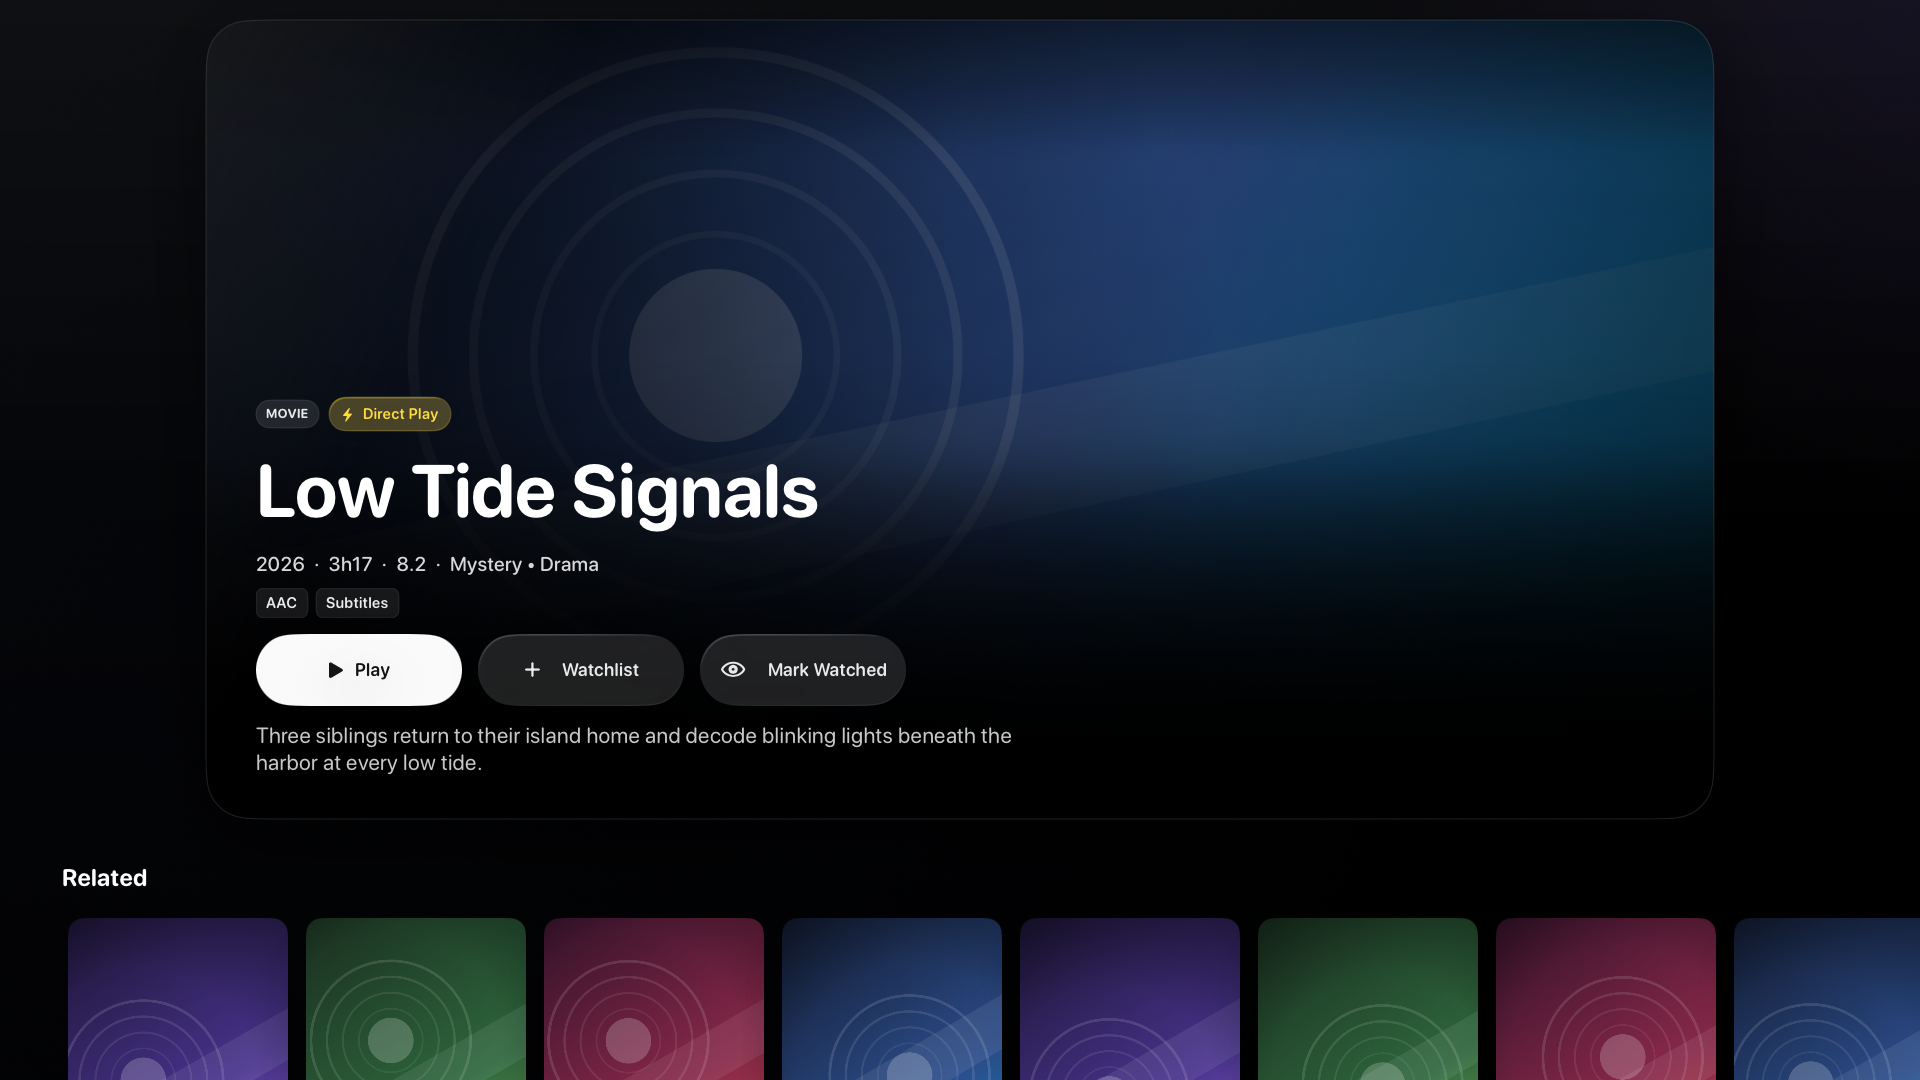
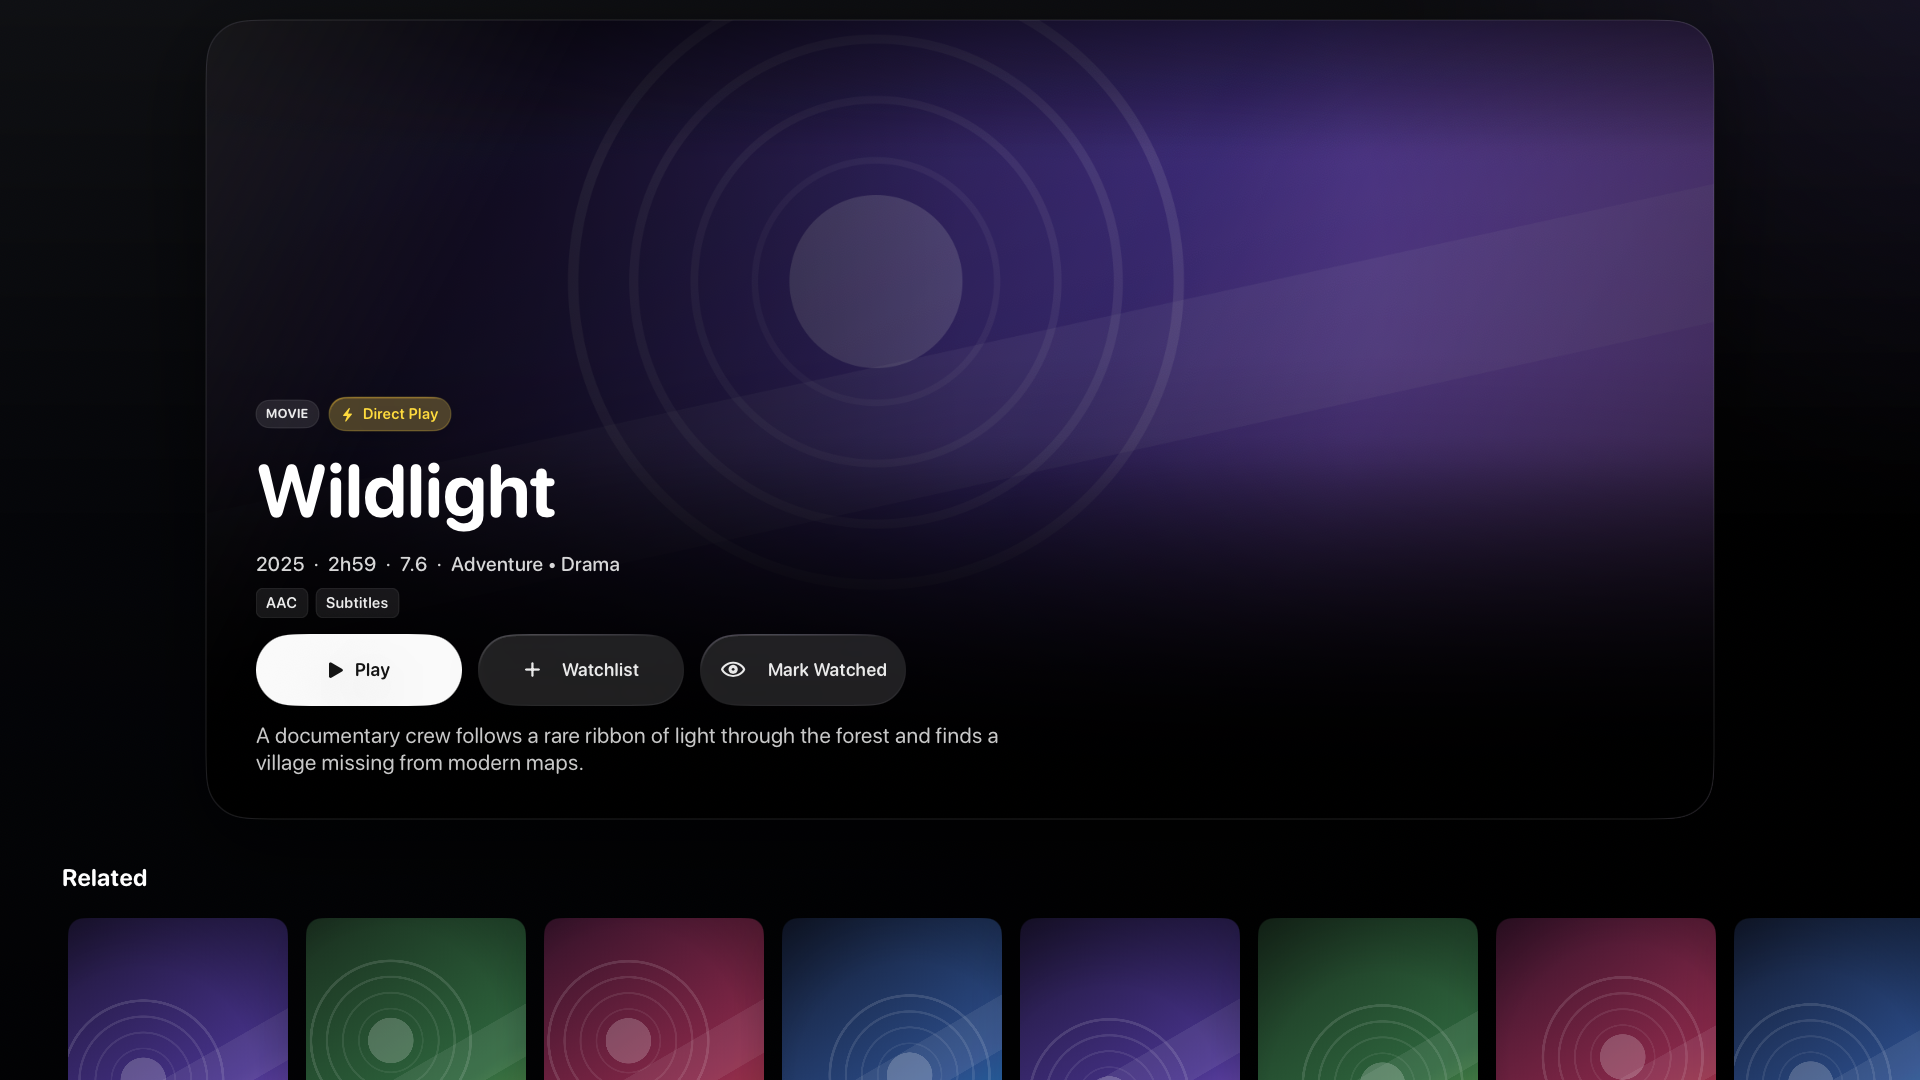
fix: align storefront review captures

diff --git a/Tests/PlaybackEngineTests/StorefrontDeterminismTests.swift b/Tests/PlaybackEngineTests/StorefrontDeterminismTests.swift
@@ -1,4 +1,5 @@
 @testable import ReelFinUI
+import Shared
 import XCTest
 
 final class StorefrontDeterminismTests: XCTestCase {
@@ -17,22 +18,85 @@ final class StorefrontDeterminismTests: XCTestCase {
         XCTAssertTrue(HeroBackgroundRenderingPolicy.includesAmbientArtwork(isScreenshotMode: false))
     }
 
-    func testStorefrontCatalogUsesCredibleFictionalReleaseCopy() async throws {
+    func testStorefrontUsesCredibleFictionalReleaseCopy() async throws {
         let client = MockJellyfinAPIClient()
         let featured = try await client.fetchItem(id: "sample-0")
         let searchResult = try await client.fetchItem(id: "sample-24")
+        let currentSession = await client.currentSession()
+        let session = try XCTUnwrap(currentSession)
+        let storedSession = try XCTUnwrap(MockSettingsStore().lastSession)
 
         XCTAssertEqual(featured.name, "Vesper Meridian")
         XCTAssertEqual(searchResult.name, "Hollow Aurora")
         XCTAssertTrue(featured.overview?.contains("cartographer") == true)
+        XCTAssertEqual(session.username, "Avery Morgan")
+        XCTAssertEqual(storedSession.username, "Avery Morgan")
+
+        let releaseCopy = [
+            featured.name,
+            featured.overview ?? "",
+            searchResult.name,
+            searchResult.overview ?? "",
+            session.username,
+            storedSession.username
+        ]
+        .joined(separator: " ")
+        .lowercased()
+
+        for forbiddenTerm in ["sample", "mock", "preview"] {
+            XCTAssertFalse(releaseCopy.contains(forbiddenTerm))
+        }
 
         for item in [featured, searchResult] {
-            let releaseCopy = [item.name, item.overview ?? ""].joined(separator: " ").lowercased()
-            XCTAssertFalse(releaseCopy.contains("sample"))
-            XCTAssertFalse(releaseCopy.contains("mock"))
-            XCTAssertFalse(releaseCopy.contains("preview"))
             XCTAssertGreaterThan(item.overview?.count ?? 0, 60)
         }
+    }
+
+    func testStorefrontAPIClientFiltersBeforeApplyingLibraryPageSize() async throws {
+        let client = MockJellyfinAPIClient()
+        let movies = try await client.fetchLibraryItems(
+            query: LibraryQuery(
+                viewID: nil,
+                page: 0,
+                pageSize: 4,
+                query: nil,
+                mediaType: .movie
+            )
+        )
+        let shows = try await client.fetchLibraryItems(
+            query: LibraryQuery(
+                viewID: nil,
+                page: 0,
+                pageSize: 4,
+                query: nil,
+                mediaType: .series
+            )
+        )
+
+        XCTAssertEqual(movies.count, 4)
+        XCTAssertEqual(shows.count, 4)
+        XCTAssertTrue(movies.allSatisfy { $0.mediaType == .movie })
+        XCTAssertTrue(shows.allSatisfy { $0.mediaType == .series })
+        XCTAssertEqual(movies.map(\.id), ["sample-0", "sample-2", "sample-4", "sample-6"])
+        XCTAssertEqual(shows.map(\.id), ["sample-1", "sample-3", "sample-5", "sample-7"])
+    }
+
+    func testStorefrontMetadataCacheFiltersBeforeApplyingLibraryPageSize() async throws {
+        let repository = MockMetadataRepository()
+        try await repository.upsertItems(MockJellyfinAPIClient.storefrontItems(prefix: 8))
+        let shows = try await repository.fetchLibraryItems(
+            query: LibraryQuery(
+                viewID: nil,
+                page: 0,
+                pageSize: 4,
+                query: nil,
+                mediaType: .series
+            )
+        )
+
+        XCTAssertEqual(shows.count, 4)
+        XCTAssertTrue(shows.allSatisfy { $0.mediaType == .series })
+        XCTAssertEqual(Set(shows.map(\.id)), Set(["sample-1", "sample-3", "sample-5", "sample-7"]))
     }
 
     func testFictionalSeriesEpisodesRemainCoherentWithSelectedSeries() async throws {

diff --git a/Tests/ReelFinUITests/ReelFinUITests.swift b/Tests/ReelFinUITests/ReelFinUITests.swift
@@ -254,17 +254,62 @@ final class AppStoreScreenshotTests: XCTestCase {
         if UIDevice.current.userInterfaceIdiom == .pad {
             XCTAssertTrue(app.staticTexts["Library"].firstMatch.waitForExistence(timeout: 5))
         }
-        XCTAssertTrue(firstPoster.waitForExistence(timeout: 8))
+        let showsFilter = app.buttons["Shows"].firstMatch
+        XCTAssertTrue(showsFilter.waitForExistence(timeout: 8))
+        showsFilter.tap()
+        let showcasedSeries = app.buttons["media_card_button_sample-39"].firstMatch
+        XCTAssertTrue(showcasedSeries.waitForExistence(timeout: 8))
         capture(name: "02-library")
 
-        firstPoster.tap()
+        showcasedSeries.tap()
         let playButton = playbackActionButton(in: app)
         XCTAssertTrue(playButton.exists)
         XCTAssertTrue(app.otherElements["detail_hero_artwork_ready"].waitForExistence(timeout: 12))
         capture(name: "03-detail")
+
+        let detailBackButton = app.buttons["Back"].firstMatch
+        XCTAssertTrue(detailBackButton.waitForExistence(timeout: 5))
+        detailBackButton.tap()
+        XCTAssertTrue(app.staticTexts["Library"].firstMatch.waitForExistence(timeout: 8))
+        if UIDevice.current.userInterfaceIdiom == .pad {
+            XCTAssertTrue(app.descendants(matching: .any)["root_sidebar_home"].firstMatch.waitForExistence(timeout: 5))
+        }
+
         openSection(named: "Settings", in: app)
         XCTAssertTrue(app.staticTexts["Settings"].firstMatch.waitForExistence(timeout: 8))
+        if UIDevice.current.userInterfaceIdiom == .pad {
+            XCTAssertTrue(app.descendants(matching: .any)["root_sidebar_home"].firstMatch.waitForExistence(timeout: 5))
+            XCTAssertTrue(app.staticTexts["Home"].firstMatch.waitForExistence(timeout: 5))
+            XCTAssertTrue(app.staticTexts["ReelFin"].firstMatch.waitForExistence(timeout: 5))
+        }
+        let storefrontUsername = app.staticTexts.matching(
+            NSPredicate(format: "label CONTAINS %@", "Avery Morgan")
+        ).firstMatch
+        XCTAssertTrue(storefrontUsername.waitForExistence(timeout: 5))
+        XCTAssertFalse(app.staticTexts["Preview"].firstMatch.exists)
         capture(name: "04-settings")
+    }
+
+    func testArtworkReadyAnchorsAreAbsentOutsideScreenshotMode() throws {
+        let app = XCUIApplication()
+        app.launchArguments += [
+            "-reelfin-mock-mode",
+            "-AppleLanguages", "(en)",
+            "-AppleLocale", "en_US",
+            "-AppleInterfaceStyle", "Dark"
+        ]
+        app.launch()
+
+        XCTAssertTrue(app.wait(for: .runningForeground, timeout: 10))
+        let firstPoster = app.buttons.matching(
+            NSPredicate(format: "identifier BEGINSWITH %@", "media_card_button_")
+        ).firstMatch
+        XCTAssertTrue(firstPoster.waitForExistence(timeout: 12))
+        XCTAssertFalse(app.otherElements["home_hero_artwork_ready"].waitForExistence(timeout: 4))
+
+        firstPoster.tap()
+        XCTAssertTrue(playbackActionButton(in: app).exists)
+        XCTAssertFalse(app.otherElements["detail_hero_artwork_ready"].waitForExistence(timeout: 4))
     }
 
     func testCapturePlayerScreenshot() throws {

diff --git a/ReelFinUI/Sources/ReelFinUI/PreviewMocks.swift b/ReelFinUI/Sources/ReelFinUI/PreviewMocks.swift
@@ -31,7 +31,7 @@ final class MockJellyfinAPIClient: JellyfinAPIClientProtocol, @unchecked Sendabl
         pollQuickConnectOverride: (@Sendable (String) async throws -> UserSession?)? = nil
     ) {
         config = ServerConfiguration(serverURL: URL(string: "https://demo.reelfin.app")!)
-        session = authenticated ? UserSession(userID: "preview-user", username: "Preview", token: "token") : nil
+        session = authenticated ? UserSession(userID: "preview-user", username: "Avery Morgan", token: "token") : nil
         defaultSessionInvalidations = sessionInvalidations
         self.sessionInvalidationsOverride = sessionInvalidationsOverride
         self.currentSessionOverride = currentSessionOverride
@@ -197,7 +197,15 @@ final class MockJellyfinAPIClient: JellyfinAPIClientProtocol, @unchecked Sendabl
     }
 
     func fetchLibraryItems(query: LibraryQuery) async throws -> [MediaItem] {
-        Self.storefrontItems(prefix: query.pageSize)
+        var items = Self.storefrontItems(prefix: 40)
+        if let mediaType = query.mediaType {
+            items = items.filter { $0.mediaType == mediaType }
+        }
+
+        let pageSize = max(query.pageSize, 0)
+        let startIndex = max(query.page, 0) * pageSize
+        guard startIndex < items.count else { return [] }
+        return Array(items.dropFirst(startIndex).prefix(pageSize))
     }
 
     func fetchPlaybackSources(itemID: String) async throws -> [MediaSource] {
@@ -405,7 +413,7 @@ final class MockSettingsStore: SettingsStoreProtocol, @unchecked Sendable {
 
     init(authenticated: Bool = true) {
         serverConfiguration = ServerConfiguration(serverURL: URL(string: "https://demo.reelfin.app")!)
-        lastSession = authenticated ? UserSession(userID: "preview-user", username: "Preview", token: "token") : nil
+        lastSession = authenticated ? UserSession(userID: "preview-user", username: "Avery Morgan", token: "token") : nil
         hasCompletedOnboarding = authenticated
         completedOnboardingVersion = authenticated ? ReelFinOnboardingVersion.current : 0
     }
@@ -443,8 +451,15 @@ actor MockMetadataRepository: MetadataRepositoryProtocol {
     }
 
     func fetchLibraryItems(query: LibraryQuery) async throws -> [MediaItem] {
-        let all = itemsByID.values.sorted { $0.id.localizedStandardCompare($1.id) == .orderedAscending }
-        return Array(all.prefix(query.pageSize))
+        var items = itemsByID.values.sorted { $0.id.localizedStandardCompare($1.id) == .orderedAscending }
+        if let mediaType = query.mediaType {
+            items = items.filter { $0.mediaType == mediaType }
+        }
+
+        let pageSize = max(query.pageSize, 0)
+        let startIndex = max(query.page, 0) * pageSize
+        guard startIndex < items.count else { return [] }
+        return Array(items.dropFirst(startIndex).prefix(pageSize))
     }
 
     func searchItems(query: String, limit: Int) async throws -> [MediaItem] {

diff --git a/ReelFinUI/Sources/ReelFinUI/Components/HeroCarouselView.swift b/ReelFinUI/Sources/ReelFinUI/Components/HeroCarouselView.swift
@@ -102,7 +102,8 @@ public struct HeroCarouselView: View {
                     pageControl
                 }
 
-                if visibleArtworkItemID == (items[safe: currentIndex] ?? items.first)?.id {
+                if AppMetadata.current.isScreenshotModeEnabled,
+                   visibleArtworkItemID == (items[safe: currentIndex] ?? items.first)?.id {
                     StorefrontArtworkReadyAnchor(identifier: "home_hero_artwork_ready")
                         .frame(width: 1, height: 1)
                 }
@@ -231,7 +232,8 @@ public struct HeroCarouselView: View {
                 }
 
 
-                if visibleArtworkItemID == (items[safe: currentIndex] ?? items.first)?.id {
+                if AppMetadata.current.isScreenshotModeEnabled,
+                   visibleArtworkItemID == (items[safe: currentIndex] ?? items.first)?.id {
                     StorefrontArtworkReadyAnchor(identifier: "home_hero_artwork_ready")
                         .frame(width: 1, height: 1)
                 }

diff --git a/ReelFinUI/Sources/ReelFinUI/Detail/DetailView.swift b/ReelFinUI/Sources/ReelFinUI/Detail/DetailView.swift
@@ -200,7 +200,8 @@ struct DetailView: View {
         }
 #if os(iOS)
         .overlay(alignment: .topLeading) {
-            if heroArtworkReadyItemID == viewModel.detail.item.id {
+            if AppMetadata.current.isScreenshotModeEnabled,
+               heroArtworkReadyItemID == viewModel.detail.item.id {
                 StorefrontArtworkReadyAnchor(identifier: "detail_hero_artwork_ready")
                     .frame(width: 1, height: 1)
             }
@@ -216,7 +217,8 @@ struct DetailView: View {
                 )
                 .frame(width: 1, height: 1)
             }
-            if heroArtworkReadyItemID == viewModel.detail.item.id {
+            if AppMetadata.current.isScreenshotModeEnabled,
+               heroArtworkReadyItemID == viewModel.detail.item.id {
                 StorefrontArtworkReadyAnchor(identifier: "detail_hero_artwork_ready")
                     .frame(width: 1, height: 1)
             }

diff --git a/Tests/ScriptTests/test_compare_storefront_png.py b/Tests/ScriptTests/test_compare_storefront_png.py
@@ -82,6 +82,47 @@ class StorefrontPNGComparatorTests(unittest.TestCase):
         self.assertNotEqual(completed.returncode, 0)
         self.assertIn("dimensions", completed.stdout + completed.stderr)
 
+    def test_rejects_unreadable_input(self) -> None:
+        with tempfile.TemporaryDirectory() as temporary:
+            directory = Path(temporary)
+            first = directory / "first.png"
+            second = directory / "second.png"
+            first.write_text("not a PNG", encoding="utf-8")
+            write_rgb_png(second, 1, 1, bytearray([96, 96, 96]))
+
+            completed = self.compare(first, second)
+
+        self.assertNotEqual(completed.returncode, 0)
+        self.assertIn("cannot decode PNG", completed.stdout + completed.stderr)
+
+    def test_accepts_exact_fraction_delta_and_component_boundaries(self) -> None:
+        with tempfile.TemporaryDirectory() as temporary:
+            first, second, baseline, candidate = self.fixture(Path(temporary), width=200, height=200)
+            for x in range(4):
+                candidate[x * 3] += 1
+            write_rgb_png(first, 200, 200, baseline)
+            write_rgb_png(second, 200, 200, candidate)
+
+            completed = self.compare(first, second)
+
+        self.assertEqual(completed.returncode, 0, completed.stdout + completed.stderr)
+        self.assertIn("changed_fraction=0.000100000", completed.stdout)
+        self.assertIn("max_channel_delta=1", completed.stdout)
+        self.assertIn("largest_component=4", completed.stdout)
+
+    def test_rejects_first_changed_fraction_above_boundary(self) -> None:
+        with tempfile.TemporaryDirectory() as temporary:
+            first, second, baseline, candidate = self.fixture(Path(temporary), width=200, height=200)
+            for x, y in ((0, 0), (20, 20), (40, 40), (60, 60), (80, 80)):
+                candidate[(y * 200 + x) * 3] += 1
+            write_rgb_png(first, 200, 200, baseline)
+            write_rgb_png(second, 200, 200, candidate)
+
+            completed = self.compare(first, second)
+
+        self.assertNotEqual(completed.returncode, 0)
+        self.assertIn("changed fraction", completed.stdout + completed.stderr)
+
     def test_rejects_visible_color_change_even_when_it_is_one_pixel(self) -> None:
         with tempfile.TemporaryDirectory() as temporary:
             first, second, baseline, candidate = self.fixture(Path(temporary))
